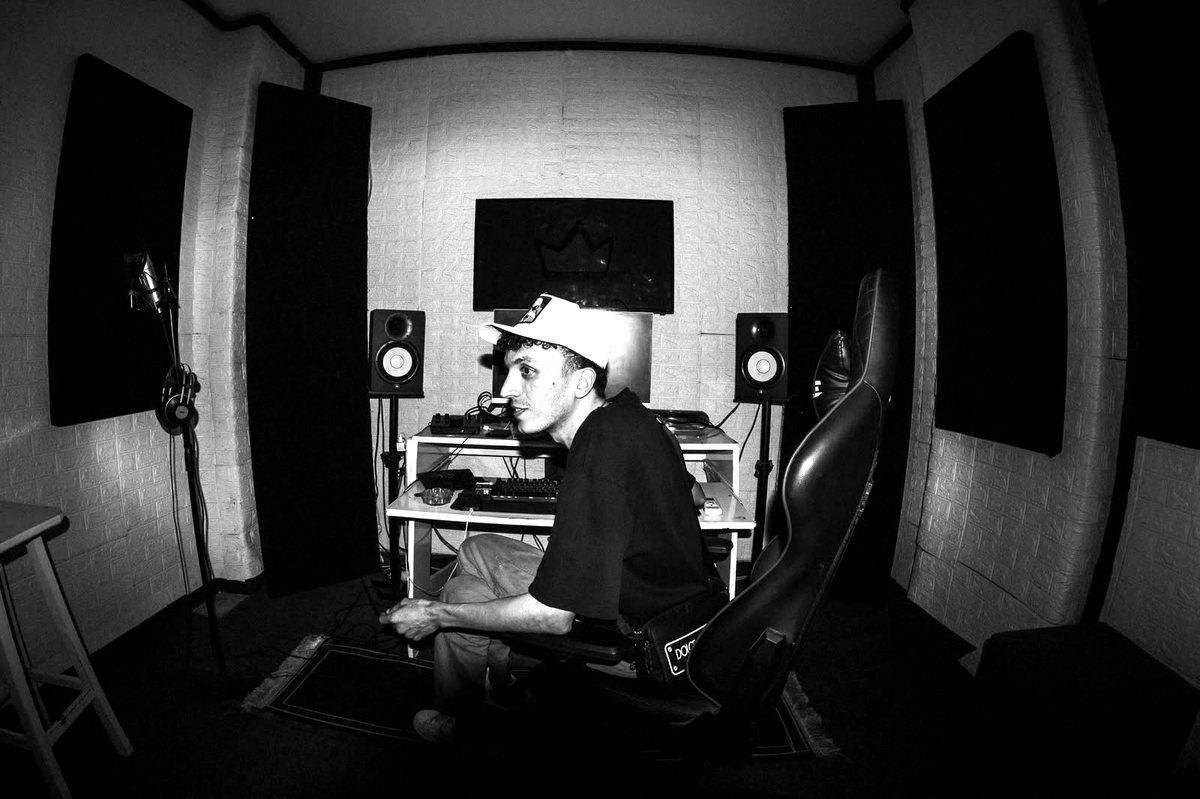
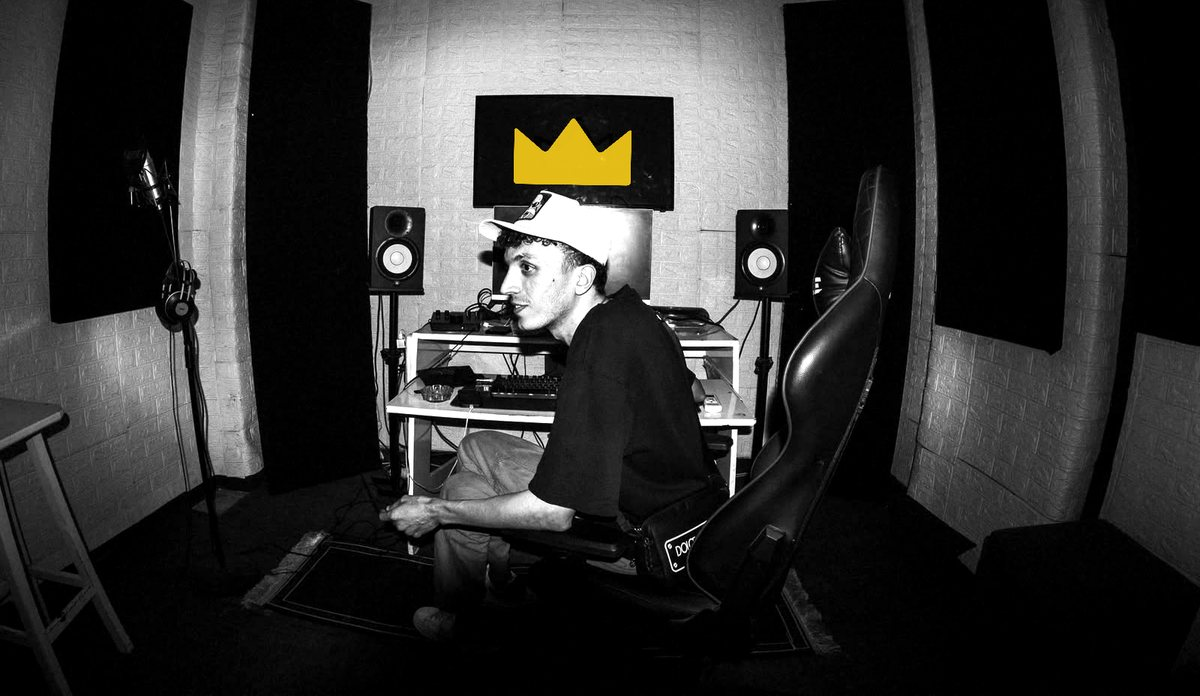
About photo: crop empty top, yellow crown on the monitor, face-focused mobile crop

diff --git a/index.html b/index.html
@@ -80,7 +80,7 @@
 .ts-name:hover { border-color: #FED219; color: #FED219; }
 .ts-studioimg { width: 100%; border-radius: 20px; border: 2px solid #FED219; display: block; }
 .ts-about { display: grid; gap: 18px; align-items: center; }
-.ts-portrait { width: 100%; max-width: 360px; aspect-ratio: 1; object-fit: cover; border-radius: 20px; border: 2px solid #FED219; display: block; margin: 0 auto; }
+.ts-portrait { width: 100%; max-width: 360px; aspect-ratio: 1; object-fit: cover; object-position: 38% 50%; border-radius: 20px; border: 2px solid #FED219; display: block; margin: 0 auto; }
 .ts-about p { margin: 0; }
 @media (min-width: 700px) { .ts-about { grid-template-columns: 300px 1fr; gap: 32px; } .ts-portrait { max-width: 300px; } }
 a.ts-btn { text-decoration: none; width: max-content; max-width: 100%; text-align: center; display: flex; align-items: center; justify-content: center; }
@@ -97,7 +97,7 @@ a.ts-btn { text-decoration: none; width: max-content; max-width: 100%; text-alig
 @media (max-width:699px){.ts-burger{display:flex}.ts-head{padding:12px 16px}.ts-head nav{display:none;position:absolute;top:100%;left:0;right:0;z-index:20;flex-direction:column;flex-wrap:nowrap;gap:0;background:#1a1a1a;border-bottom:1px solid #2a2a2a;padding:8px 16px}.ts-head.open nav{display:flex}.ts-head nav .ts-navl{padding:14px 8px;border-bottom:1px solid #262626;font-size:17px}.ts-head nav .ts-navl:last-child{border-bottom:0}}.ts-video .ts-credit{padding:0 16px 16px;margin:-8px 0 0;font-size:14px;color:#FED219}.ts-podembed{grid-column:1/-1}.ts-podlabel{margin:0 0 12px;font-size:20px;text-align:center;color:#fff}.ts-frame{aspect-ratio:16/9;border-radius:16px;overflow:hidden;background:#000}.ts-frame iframe{width:100%;height:100%;border:0;display:block}.ts-soon{color:#9a9a9a;margin:0}.ts-latest{max-width:920px}.ts-latest-t{margin:14px 0 0;font-size:20px;text-align:center}.ts-rel{display:flex;flex-direction:column;gap:10px;margin-top:20px}.ts-rel-i{display:flex;align-items:center;gap:12px;background:#1c1c1c;border-radius:12px;padding:8px 12px 8px 8px;text-decoration:none;color:inherit}.ts-rel-i:hover{filter:brightness(1.15)}.ts-rel-i img{width:120px;aspect-ratio:16/9;object-fit:cover;border-radius:8px;flex:none}.ts-rel-t{display:flex;flex-direction:column;gap:2px;min-width:0}.ts-rel-t b{font-size:15px;color:#fff}.ts-rel-t i{font-style:normal;font-size:13px;color:#FED219}.ts-rel-d{font-size:12px;color:#9a9a9a}</style><script src="imgs.js"></script><script src="logo.js"></script><script src="font1.js"></script><script src="font2.js"></script><script>var st=document.createElement("style");st.textContent="@font-face{font-family:\"TsCairo\";src:url(data:font/ttf;base64,"+F1+F2+") format(\"truetype\");font-weight:200 1000}";document.head.appendChild(st);</script></head><body><div id="en"><div class="ts" dir="ltr" lang="en">
 <header class="ts-head"><span class="ts-logo"><img data-d="0" src="data:," alt="Tago crown logo" class="ts-crown"/>TAGO</span><nav><a href="#about" class="ts-navl">About</a><a href="#services" class="ts-navl">Services</a><a href="#latest" class="ts-navl">My Latest Release</a><a href="#work" class="ts-navl">Work</a><a href="#podcast" class="ts-navl">Podcast</a><a href="#contact" class="ts-navl">Contact</a></nav><div class="ts-hr"><button type="button" class="ts-lang" onclick="setLang('ar')">العربية</button><button type="button" class="ts-burger" aria-label="Menu" aria-expanded="false"><span></span><span></span><span></span></button></div></header>
 <section class="ts-hero"><div class="ts-hero-in"><div class="ts-avatar"><img data-d="0" src="data:," alt="Tago crown logo"/></div><h1>TAGO</h1><p class="ts-tag">Music Producer · Sound Engineer · Content Creator</p><div class="ts-social"><a href="https://www.instagram.com/lordtago" target="_blank" rel="noopener noreferrer">Instagram</a><a href="https://youtube.com/@lordtago" target="_blank" rel="noopener noreferrer">YouTube</a><a href="https://www.tiktok.com/@lordtago" target="_blank" rel="noopener noreferrer">TikTok</a><a href="https://www.facebook.com/share/1EE7hcCsJZ/?mibextid=wwXIfr" target="_blank" rel="noopener noreferrer">Facebook</a><a href="mailto:lordtagoo@gmail.com">Email</a></div><div class="ts-bubble">Got an idea? Let's turn it into a record at the studio.</div><a href="https://wa.me/201001452808" target="_blank" rel="noopener noreferrer" class="ts-btn">Message me on WhatsApp</a></div></section>
-<section id="about" class="ts-sec"><h2>About me and the studio</h2><div class="ts-about"><img class="ts-portrait" src="studio.jpg" alt="Tago at the desk in Toufan Studio" loading="lazy" width="1200" height="799"/><p>I am Tago from Ismailia, Egypt. Music producer, arranger, sound engineer and songwriter, and the owner of Toufan Studio. My rap and mahraganat work has reached millions of views.</p></div><div class="ts-stats"><div><b dir="ltr">345K+</b><span>followers combined</span></div><div><b dir="ltr" class="ts-ytviews">5.3M+</b><span>YouTube views</span></div><div><b dir="ltr">46.3K</b><span>YouTube subscribers</span></div><div><b dir="ltr">174.6K</b><span>TikTok followers</span></div><div><b dir="ltr">108K</b><span>Facebook followers</span></div><div><b dir="ltr">16.8K</b><span>Instagram followers</span></div><div><b dir="ltr">12+</b><span>years</span></div></div></section>
+<section id="about" class="ts-sec"><h2>About me and the studio</h2><div class="ts-about"><img class="ts-portrait" src="studio.jpg" alt="Tago at the desk in Toufan Studio" loading="lazy" width="1200" height="696"/><p>I am Tago from Ismailia, Egypt. Music producer, arranger, sound engineer and songwriter, and the owner of Toufan Studio. My rap and mahraganat work has reached millions of views.</p></div><div class="ts-stats"><div><b dir="ltr">345K+</b><span>followers combined</span></div><div><b dir="ltr" class="ts-ytviews">5.3M+</b><span>YouTube views</span></div><div><b dir="ltr">46.3K</b><span>YouTube subscribers</span></div><div><b dir="ltr">174.6K</b><span>TikTok followers</span></div><div><b dir="ltr">108K</b><span>Facebook followers</span></div><div><b dir="ltr">16.8K</b><span>Instagram followers</span></div><div><b dir="ltr">12+</b><span>years</span></div></div></section>
 <section id="artists" class="ts-sec"><h2>Artists</h2><div id="tsArtistsEn"></div></section>
 <section id="studio" class="ts-sec"><h2>The Studio</h2><img class="ts-studioimg" src="studio-1.jpg" alt="Toufan Studio control room with the Tago crown on the screens" loading="lazy" width="900" height="1200"/></section>
 <section id="artists" class="ts-sec"><h2>الفنانين</h2><div id="tsArtistsAr"></div></section>
@@ -110,7 +110,7 @@ a.ts-btn { text-decoration: none; width: max-content; max-width: 100%; text-alig
 <footer class="ts-foot">© Tago · Toufan Studio</footer></div></div><div id="ar" style="display:none"><div class="ts" dir="rtl" lang="ar">
 <header class="ts-head"><span class="ts-logo"><img data-d="0" src="data:," alt="شعار تاجو" class="ts-crown"/>تاجو</span><nav><a href="#about" class="ts-navl">عني</a><a href="#services" class="ts-navl">الخدمات</a><a href="#latest" class="ts-navl">آخر إصداراتي</a><a href="#work" class="ts-navl">شغلي</a><a href="#podcast" class="ts-navl">فالاستوديو</a><a href="#contact" class="ts-navl">تواصل</a></nav><div class="ts-hr"><button type="button" class="ts-lang" onclick="setLang('en')">English</button><button type="button" class="ts-burger" aria-label="Menu" aria-expanded="false"><span></span><span></span><span></span></button></div></header>
 <section class="ts-hero"><div class="ts-hero-in"><div class="ts-avatar"><img data-d="0" src="data:," alt="شعار تاجو"/></div><div class="ts-h1ar">تاجو</div><p class="ts-tag">منتج موسيقي · مهندس صوت · صانع محتوى</p><div class="ts-social"><a href="https://www.instagram.com/lordtago" target="_blank" rel="noopener noreferrer">Instagram</a><a href="https://youtube.com/@lordtago" target="_blank" rel="noopener noreferrer">YouTube</a><a href="https://www.tiktok.com/@lordtago" target="_blank" rel="noopener noreferrer">TikTok</a><a href="https://www.facebook.com/share/1EE7hcCsJZ/?mibextid=wwXIfr" target="_blank" rel="noopener noreferrer">Facebook</a><a href="mailto:lordtagoo@gmail.com">البريد</a></div><div class="ts-bubble">أي فكرة في دماغك، نحولها لشغل يتسمع في الاستوديو.</div><a href="https://wa.me/201001452808" target="_blank" rel="noopener noreferrer" class="ts-btn">كلمني على واتساب</a> <a href="mailto:lordtagoo@gmail.com" class="ts-btn" style="align-self:center;margin:12px auto 0">ابعتلي إيميل</a></div></section>
-<section id="about" class="ts-sec"><h2>عني وعن الاستوديو</h2><div class="ts-about"><img class="ts-portrait" src="studio.jpg" alt="تاجو على المكتب في استوديو طوفان" loading="lazy" width="1200" height="799"/><p>أنا تاجو من الإسماعيلية. موزع موسيقي ومهندس صوت وكاتب أغاني، وصاحب استوديو طوفان. اشتغلت في الراب والمهرجانات وشغلي وصل لملايين المشاهدات.</p></div><div class="ts-stats"><div><b dir="ltr">345K+</b><span>متابع على كل المنصات</span></div><div><b dir="ltr" class="ts-ytviews">5.3M+</b><span>مشاهدة على يوتيوب</span></div><div><b dir="ltr">46.3K</b><span>مشترك على يوتيوب</span></div><div><b dir="ltr">174.6K</b><span>متابع على تيك توك</span></div><div><b dir="ltr">108K</b><span>متابع على فيسبوك</span></div><div><b dir="ltr">16.8K</b><span>متابع على انستجرام</span></div><div><b dir="ltr">12+</b><span>سنة خبرة</span></div></div></section>
+<section id="about" class="ts-sec"><h2>عني وعن الاستوديو</h2><div class="ts-about"><img class="ts-portrait" src="studio.jpg" alt="تاجو على المكتب في استوديو طوفان" loading="lazy" width="1200" height="696"/><p>أنا تاجو من الإسماعيلية. موزع موسيقي ومهندس صوت وكاتب أغاني، وصاحب استوديو طوفان. اشتغلت في الراب والمهرجانات وشغلي وصل لملايين المشاهدات.</p></div><div class="ts-stats"><div><b dir="ltr">345K+</b><span>متابع على كل المنصات</span></div><div><b dir="ltr" class="ts-ytviews">5.3M+</b><span>مشاهدة على يوتيوب</span></div><div><b dir="ltr">46.3K</b><span>مشترك على يوتيوب</span></div><div><b dir="ltr">174.6K</b><span>متابع على تيك توك</span></div><div><b dir="ltr">108K</b><span>متابع على فيسبوك</span></div><div><b dir="ltr">16.8K</b><span>متابع على انستجرام</span></div><div><b dir="ltr">12+</b><span>سنة خبرة</span></div></div></section>
 <section id="services" class="ts-sec"><h2>الخدمات</h2><div class="ts-grid" id="tsSvcAr"></div><p class="ts-svcnote">التسليم من يوم لـ٣ أيام</p></section>
 <section id="latest" class="ts-sec"><h2>آخر إصداراتي</h2><div class="ts-latest" id="tsLatestAr"><div class="ts-frame"><iframe src="https://www.youtube.com/embed/CoeoFm5acP8" title="TAGO X SCOR - Mate3mlsh Enk 7abiby | تاجو وسكور - متعملش انك حبيبي" loading="lazy" allow="accelerometer; encrypted-media; picture-in-picture; web-share" allowfullscreen referrerpolicy="strict-origin-when-cross-origin"></iframe></div><h3 class="ts-latest-t" dir="auto">TAGO X SCOR - Mate3mlsh Enk 7abiby | تاجو وسكور - متعملش انك حبيبي</h3><a class="ts-btn" style="margin:12px auto 0" href="https://youtu.be/CoeoFm5acP8" target="_blank" rel="noopener noreferrer">شاهد على يوتيوب</a></div><div class="ts-rel" id="tsRelAr"></div></section><section id="work" class="ts-sec"><h2>شغلي</h2><div class="ts-grid" id="tsGridAr"></div><div class="ts-rel" id="tsWorkRelAr"></div></section>
 <section id="podcast" class="ts-sec ts-pod"><div class="ts-podlogo"><img data-pl="1" src="data:," alt="FLSTUDIO with Tago podcast logo" loading="lazy"/></div><div><h2>فالاستوديو مع تاجو</h2><p>بودكاست بنستضيف فيه نجوم المهرجانات والشعبي: حوار، ريأكشن على فيديوهاتهم، فقرة غناء لايف، وتحدي بنخليهم يجربوه.</p><a class="ts-btn" style="margin:14px 0 0" href="https://www.youtube.com/playlist?list=PLAxLyk6ogs0xgaepPgfRe_CwHPWfxUmDX" target="_blank" rel="noopener noreferrer">شاهد الموسم الأول على يوتيوب</a></div><div class="ts-podembed"><h3 class="ts-podlabel" dir="rtl" lang="ar">بودكاست فالاستوديو مع تاجو الموسم الاول</h3><div class="ts-frame"><iframe src="https://www.youtube.com/embed/videoseries?list=PLAxLyk6ogs0xgaepPgfRe_CwHPWfxUmDX" title="فالاستوديو مع تاجو، الموسم الأول" loading="lazy" allow="accelerometer; encrypted-media; picture-in-picture; web-share" allowfullscreen referrerpolicy="strict-origin-when-cross-origin"></iframe></div></div></section>
